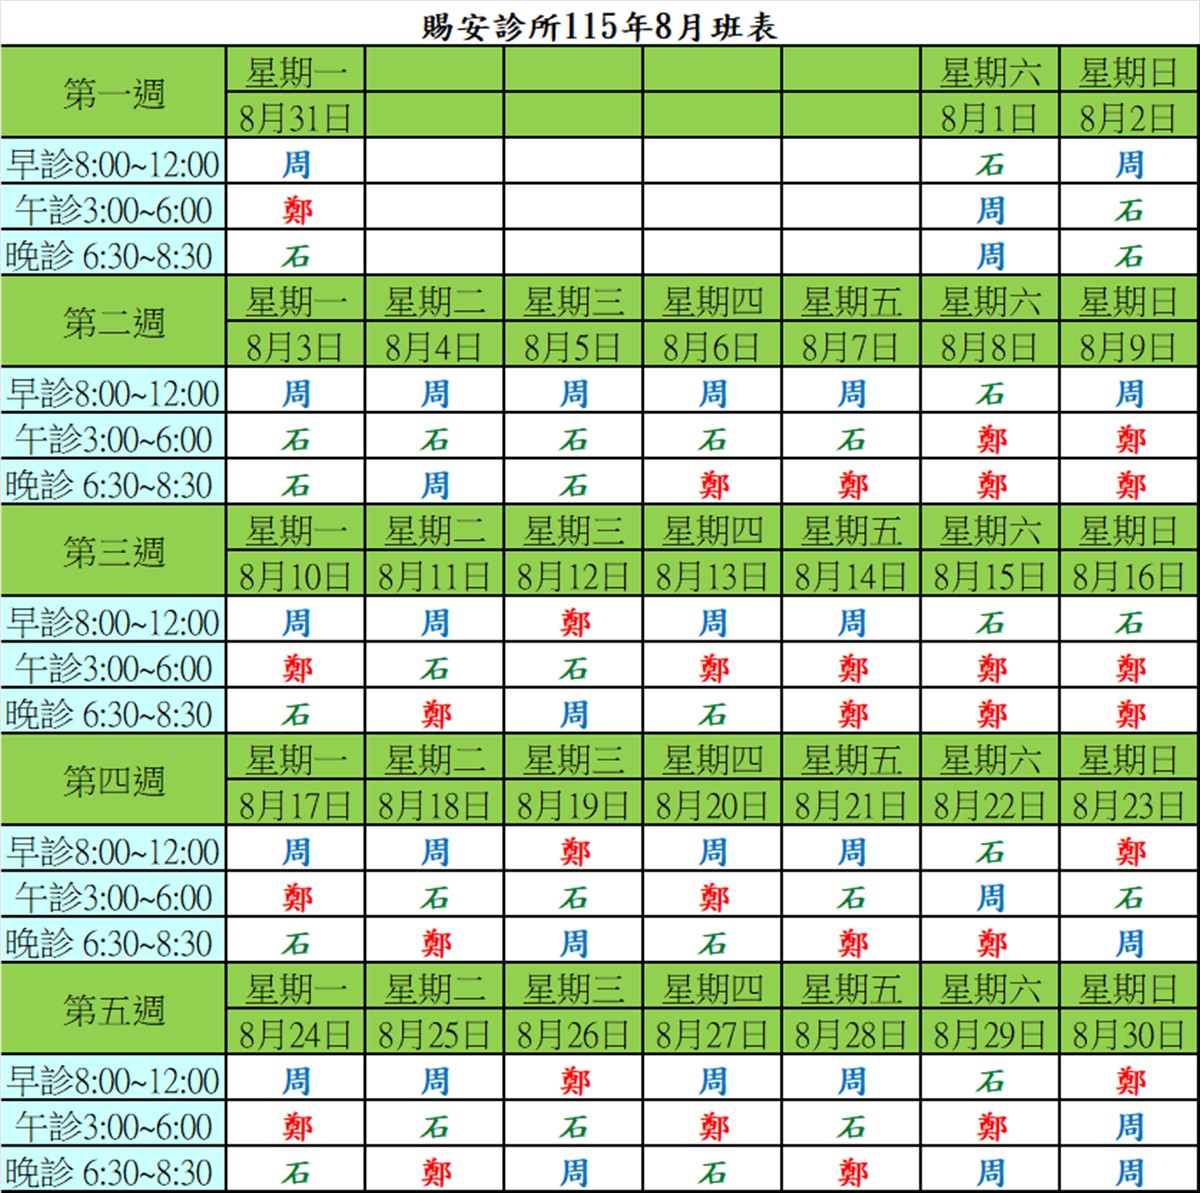
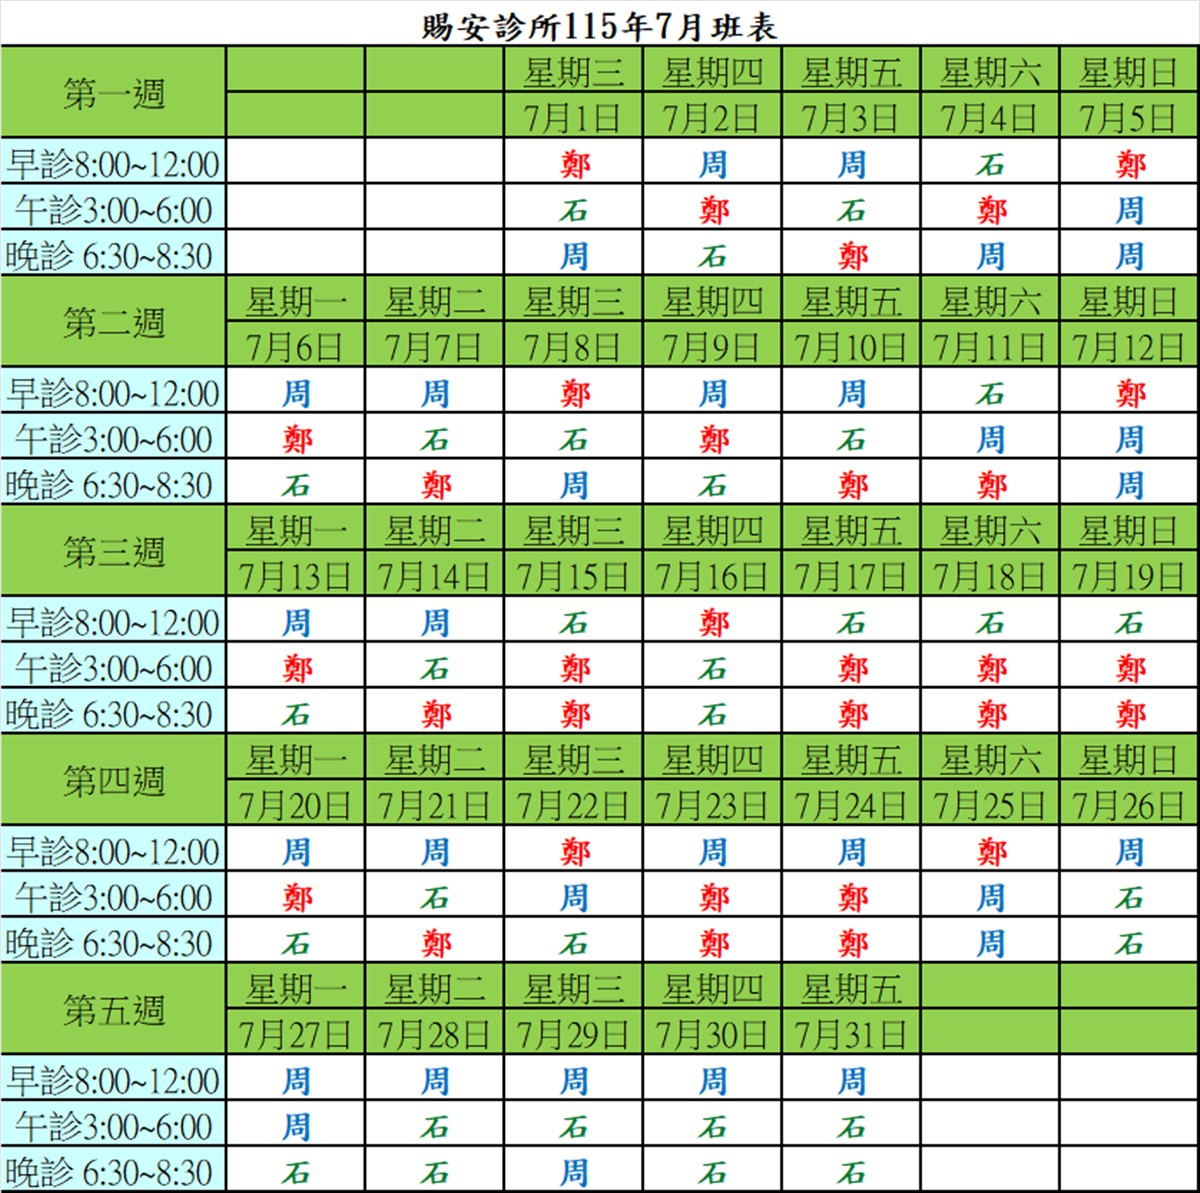
改為月份專屬圖檔命名，保留舊名稱相容

diff --git a/upload-schedule-images.js b/upload-schedule-images.js
@@ -5,15 +5,41 @@ const { createClient } = require('@supabase/supabase-js');
 
 const supabase = createClient(process.env.SUPABASE_URL, process.env.SUPABASE_SERVICE_KEY);
 
-const files = ['schedule-week1.png', 'schedule-week2.png', 'schedule-week3.png', 'schedule-week4.png', 'schedule-week5.png', 'schedule-week6.png', 'schedule-full-month.jpg'];
+// 取得當前年月，用於組合檔名（與 generate-schedule-image / generate-weekly-schedules 保持一致）
+const now = new Date();
+const currentYear = now.getFullYear();
+const currentMonth = String(now.getMonth() + 1).padStart(2, '0');
+
+// 組成月份專屬的檔名 (最多 6 週)
+const monthFiles = [];
+for (let i = 1; i <= 6; i++) {
+  monthFiles.push(`schedule-${currentYear}-${currentMonth}-week${i}.png`);
+}
+monthFiles.push(`schedule-full-${currentYear}-${currentMonth}.jpg`);
+
+// 為了相容既有程式（仍使用 schedule-weekX.png、schedule-full-month.jpg），
+// 也同時上傳一組通用名稱的檔案（會指向同一張檔案）
+const genericFiles = [];
+for (let i = 1; i <= 6; i++) {
+  genericFiles.push(`schedule-week${i}.png`);
+}
+genericFiles.push('schedule-full-month.jpg');
+
+// 合併兩組檔案清單（若同名檔案已存在，會以相同內容上傳，Supabase 會以 upsert 方式覆寫）
+const files = [...new Set([...monthFiles, ...genericFiles])];
 
 async function uploadAll() {
   for (const file of files) {
     const filePath = path.join(__dirname, file);
+    if (!fs.existsSync(filePath)) {
+      console.warn(`${file} 不存在，跳過上傳`);
+      continue;
+    }
     const buffer = fs.readFileSync(filePath);
+    const contentType = file.endsWith('.jpg') ? 'image/jpeg' : 'image/png';
     const { data, error } = await supabase.storage
       .from('images')
-      .upload(file, buffer, { contentType: 'image/png', upsert: true });
+      .upload(file, buffer, { contentType, upsert: true });
 
     if (error) {
       console.error(`${file} 上傳失敗:`, error.message);

diff --git a/generate-weekly-schedules.js b/generate-weekly-schedules.js
@@ -289,7 +289,7 @@ async function main() {
     const week = scheduleData.weeks[i];
     const canvas = drawWeekSchedule(week, scheduleData.year, scheduleData.month, i);
 
-    const outputPath = path.join(__dirname, `schedule-week${i + 1}.png`);
+    const outputPath = path.join(__dirname, `schedule-${scheduleData.year}-${String(scheduleData.month).padStart(2,'0')}-week${i + 1}.png`);
     const buffer = canvas.toBuffer('image/png');
 
     fs.writeFileSync(outputPath, buffer);

diff --git a/index.js b/index.js
@@ -536,7 +536,7 @@ async function getFullMonthSchedule() {
   const now = new Date();
   const rocYear = now.getFullYear() - 1911;
   const month = now.getMonth() + 1;
-  const imageUrl = STORAGE_URL + '/schedule-full-month.jpg';
+  const imageUrl = STORAGE_URL + `/schedule-full-${now.getFullYear()}-${String(month).padStart(2,'0')}.jpg`;
   return [
     {
       type: 'text',
